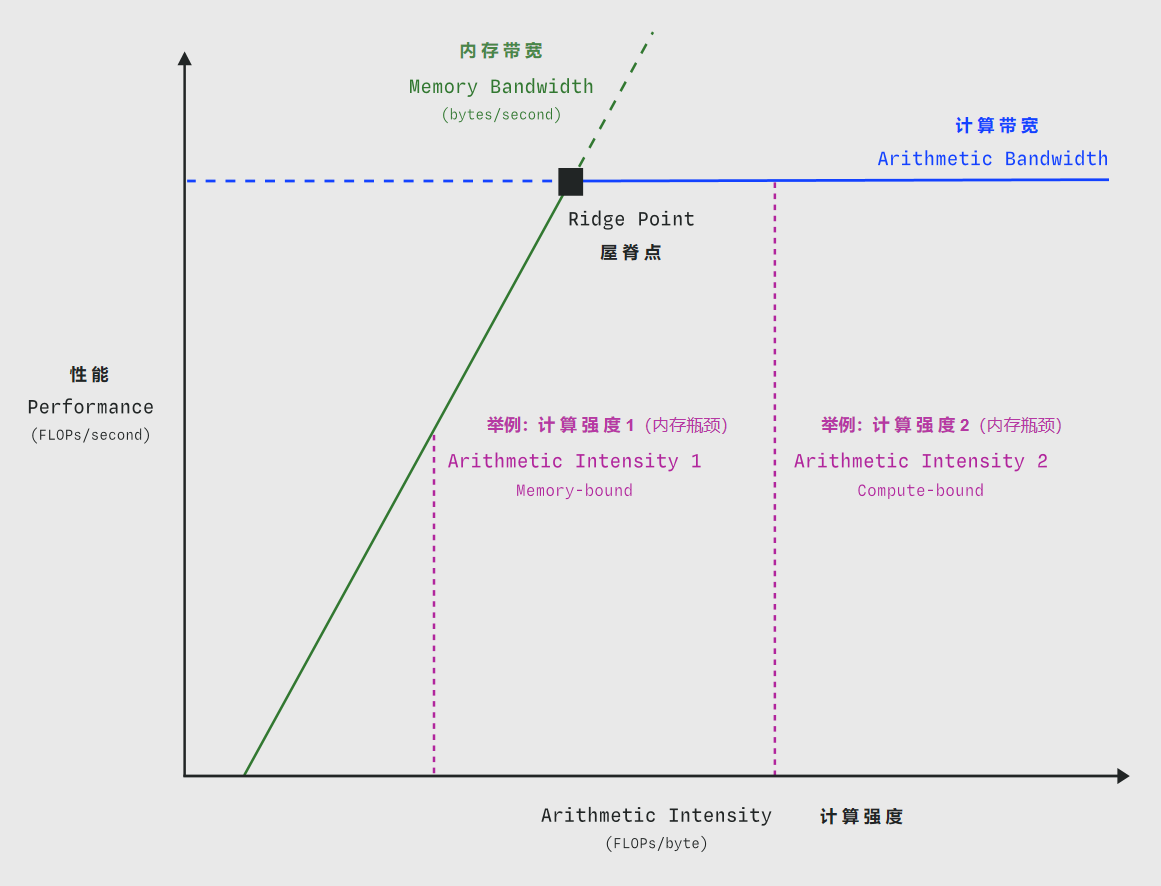
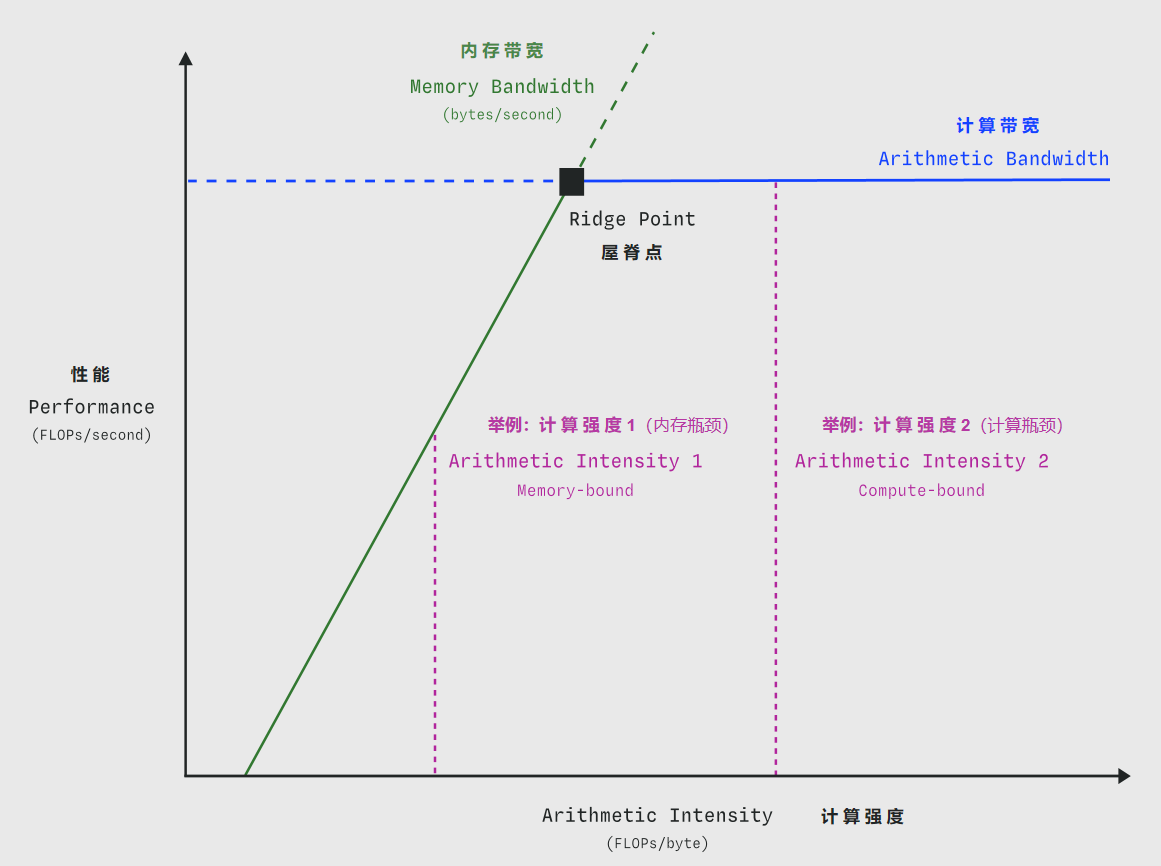
Memory-bound

diff --git a/4.Memory-bound.md b/4.Memory-bound.md
@@ -1,0 +1,39 @@
+# 内存瓶颈（Memory-bound）
+
+内存受限（memory-bound） 的 Kernel 受到 GPU 显存（GPU RAM） 与 流式多处理器（Streaming Multiprocessors, SM）本地缓存 之间带宽的限制。
+
+因为，对于 GPU 性能分析中常见的问题而言，其工作集大小（working set size） 通常远远大于 GPU 存储层次结构中任何更高层级（如缓存、寄存器）的容量。
+
+内存受限 的 Kernel 具有较低的 算术强度（arithmetic intensity） ，也就是说，每传输一个字节执行的算术运算较少。
+
+![由 Samuel Williams、Andrew Waterman 和 David Patterson 于 2008 年提出](image/roofline_model.png)
+
+在 屋顶线模型（roofline model） 的“脊点”（ridge point）而言，它处于更低的区域。
+
+## 举例：大型模型推理
+
+在当今的 大型语言模型（LLM）推理任务 中，模型在 解码/输出生成阶段（decode/output generation stage） 通常是内存受限的。
+
+因为此时每次前向传播（forward pass）都必须重新加载权重。（这里指的加载权重是将 权重参数 从 GPU 显存或更慢的系统内存 到 计算单元。SM cache / shared memory 容量太小，根本放不下几十 GB 的权重）
+
+（这里不包括使用了多 token 预测（multi-token prediction） 或 推测式解码（speculative decoding））
+
+### 简单计算例子
+
+问题：
+- 内存受限 Transformer 大语言模型 的最小 token 间延迟（inter-token latency，即每个输出 token 所需的最短时间）。
+
+模型和硬件信息：
+- 假设模型有 5000 亿个参数（500B parameters），以 16 位精度 存储，总大小约为 1 TB。
+- 在一张显存带宽为 10 TB/s 的 GPU 上运行推理。
+
+计算过程：
+- 加载所有权重需要 100ms（参数大小 / 带宽 = 1TB / 10TB/s = 0.1s = 100ms）
+- 即理论上在内存受限的情况下（假设计算带宽等都不是瓶颈），每个 batch 元素生成一个 token 的 最小延迟 就是 100 毫秒。
+
+- 这意味着受 硬件内存带宽影响，你的 token 延迟最低也需要 100 毫秒。
+
+如何降低内存瓶颈（提高计算强度）
+- 通过将多个输入一起批处理（batching multiple inputs together），可以线性地增加每个加载参数所执行的浮点运算次数（即算术强度），理论上直到达到计算受限（compute-boundedness）的点，并且不会增加额外延迟。
+
+- 这意味着模型的 **吞吐量（throughput）** 会随着 batch size 线性提升。

diff --git a/3.Compute-bound.md b/3.Compute-bound.md
@@ -23,6 +23,8 @@
 计算过程：
 - 该模型对每个 batch 元素（batch element）大约会执行 1 万亿次浮点运算（1T FLOPs）（Transformer 语言模型，每个参数执行一次乘法和一次加法，500B * 2 = 1T）。
 - 理论上在计算受限的情况下（假设内存带宽等都不是瓶颈），每个 batch 元素生成一个 token 的 **最小延迟** 就是 1 毫秒（ 1T / 1P = $10^{12} / 10^{15}$ = $10^{-3}$ s = 1ms ）
+- 这意味着受 硬件计算带宽 的影响，你的 token 延迟最低也需要 1 毫秒。
+
 - 如果延迟超过 1ms，就说明存在别的瓶颈
     - GPU 算力没被完全利用
     - 性能被其他因素“卡住”了，如：
